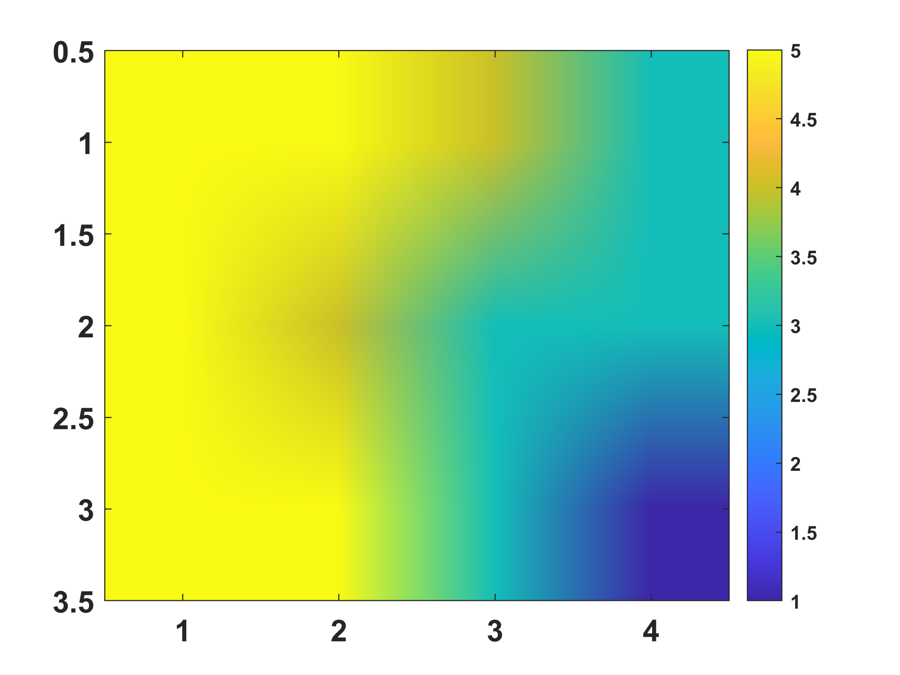
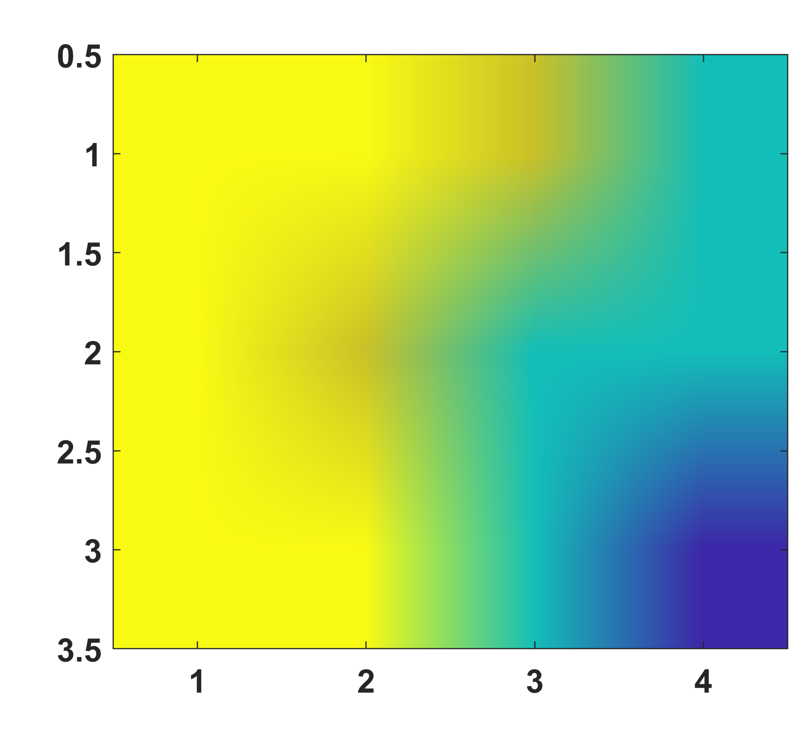
Replace setup figure with damage micrographs, remove map scales and formulas
Claude-Session: https://claude.ai/code/session_01HNLh7mp5WCfGdL9fzXE7Ag

diff --git a/research.html b/research.html
@@ -15,10 +15,10 @@
 <section id="aging"><div class="wrap"><h2>Prepreg aging</h2><div class="split"><div><p>Prepreg keeps slowly curing during room-temperature storage. As it aged, enthalpy fell and dielectric relaxation shifted, and those changes tracked the mechanical performance of the final part.</p><div class="kpis"><div class="kpi"><b>93.3%</b>test accuracy classifying prepreg age with a support vector machine</div></div>
 <details><summary>Fitted Havriliak–Negami parameters</summary><div class="tablewrap"><table><thead><tr><th>Sample</th><th>Δε</th><th>τ (s)</th><th>α</th><th>β</th></tr></thead><tbody><tr><td>Non-aged</td><td>8.68</td><td>0.63</td><td>0.48</td><td>0.24</td></tr><tr><td>10 days</td><td>4.80</td><td>1.51</td><td>0.48</td><td>0.25</td></tr><tr><td>30 days</td><td>2.45</td><td>2.19</td><td>0.48</td><td>0.26</td></tr><tr><td>40 days</td><td>1.72</td><td>2.77</td><td>0.48</td><td>0.24</td></tr></tbody></table></div></details>
 <p><a href="https://doi.org/10.1177/09673911221145053" target="_blank" rel="noopener">Read the paper</a></p></div><figure class="fig"><svg class="chart" viewBox="0 0 520 300" role="img" aria-label="Enthalpy falls from 70.68 joules per gram in non-aged prepreg to 47.96 joules per gram after more than 80 days."><line x1="50" x2="510" y1="250" y2="250" class="axis"/><text x="16" y="150" transform="rotate(-90 16 150)" text-anchor="middle" class="axlabel">Enthalpy (J/g)</text><rect x="70" y="55.6" width="56" height="194.4" rx="3" fill="#1D4ED8"/><line x1="98" x2="98" y1="50.6" y2="60.6" stroke="#171C21" stroke-width="1.5"/><text x="98" y="43.6" text-anchor="middle" class="axlabel">70.7</text><text x="98" y="272" text-anchor="middle" class="tick">Non-aged</text><text x="98" y="290" text-anchor="middle" class="tick">0% cured</text><title>Non-aged: 70.68 ± 1.82 J/g, degree of cure 0%</title><rect x="185" y="71.6" width="56" height="178.4" rx="3" fill="#1D4ED8"/><line x1="213" x2="213" y1="64.5" y2="78.8" stroke="#171C21" stroke-width="1.5"/><text x="213" y="57.5" text-anchor="middle" class="axlabel">64.9</text><text x="213" y="272" text-anchor="middle" class="tick">20 days</text><text x="213" y="290" text-anchor="middle" class="tick">8.23% cured</text><title>20 days: 64.86 ± 2.6 J/g, degree of cure 8.23%</title><rect x="300" y="93.0" width="56" height="157.0" rx="3" fill="#1D4ED8"/><line x1="328" x2="328" y1="78.9" y2="107.0" stroke="#171C21" stroke-width="1.5"/><text x="328" y="71.9" text-anchor="middle" class="axlabel">57.1</text><text x="328" y="272" text-anchor="middle" class="tick">50 days</text><text x="328" y="290" text-anchor="middle" class="tick">19.2% cured</text><title>50 days: 57.1 ± 5.11 J/g, degree of cure 19.2%</title><rect x="415" y="118.1" width="56" height="131.9" rx="3" fill="#1D4ED8"/><line x1="443" x2="443" y1="107.0" y2="129.2" stroke="#171C21" stroke-width="1.5"/><text x="443" y="100.0" text-anchor="middle" class="axlabel">48.0</text><text x="443" y="272" text-anchor="middle" class="tick">80+ days</text><text x="443" y="290" text-anchor="middle" class="tick">32.13% cured</text><title>80+ days: 47.96 ± 4.04 J/g, degree of cure 32.13%</title></svg><figcaption class="fig-cap"><b>Residual cure enthalpy falls with storage time.</b> Error bars show the reported ± values.</figcaption></figure></div></div></section>
-<section id="cure"><div class="wrap split"><div><h2>Cure and quality</h2><p>A coupled model links heat transfer, cure kinetics, and dielectric response, so a dielectric reading can be interpreted as cure state. Machine learning then turns measurements into a degree-of-cure map and a strength estimate without destructive testing.</p><div class="kpis"><div class="kpi"><b>96.7%</b>degree-of-cure mapping accuracy reported in the dissertation</div><div class="kpi"><b>R² = 0.875</b>tensile strength prediction from a neural network</div></div><p><a href="https://doi.org/10.1002/pc.27891" target="_blank" rel="noopener">Read the paper</a></p></div><figure class="fig"><div class="maps"><img src="assets/img/cure-map-a.png" alt="Smooth color map of cure state across a composite panel, ranging from class 5 to class 1" loading="lazy"><img src="assets/img/cure-map-b.png" alt="Grid-cell color map of cure state across the same panel" loading="lazy"></div><figcaption class="fig-cap"><b>Spatial cure maps across a composite panel.</b> Color shows cure state on a scale of 1 to 5.</figcaption></figure></div></section>
-<section id="damage"><div class="wrap"><h2>Sorting by damage</h2><div class="split"><div><p>A damaged composite and an undamaged one should not take the same path at end of life. Here, about 190 samples loaded to set fractions of breaking load were measured dielectrically and classified by a neural network. Damage history also changed how resin came away during pyrolysis.</p></div><figure class="fig"><img src="assets/img/sorting-setup.jpg" alt="Schematic of a composite specimen under load with strain measurement and electrodes connected to a dielectric measurement unit, with mechanical and dielectric responses recorded on two computers" loading="lazy"><figcaption class="fig-cap"><b>Experimental setup.</b> Mechanical loading paired with dielectric measurement through electrodes on the specimen.</figcaption></figure></div><div class="split rev"><figure class="fig"><svg class="chart" viewBox="0 0 370 350" role="img" aria-label="Three-class test confusion matrix. 17 of 18 samples are classified correctly; one A sample was predicted as C."><text x="216" y="20" text-anchor="middle" class="tick"></text><text x="66" y="78" text-anchor="middle" class="axlabel">A</text><rect x="84" y="34" width="86" height="86" fill="#6F93EA"><title>True A, predicted A: 5</title></rect><text x="127" y="85" text-anchor="middle" font-size="24" font-weight="600" fill="#fff">5</text><rect x="172" y="34" width="86" height="86" fill="#BFD0F7"><title>True A, predicted C: 1</title></rect><text x="215" y="85" text-anchor="middle" font-size="24" font-weight="600" fill="#171C21">1</text><rect x="260" y="34" width="86" height="86" fill="#EDF2F3"><title>True A, predicted D: 0</title></rect><text x="303" y="85" text-anchor="middle" font-size="24" font-weight="600" fill="#171C21">0</text><text x="127" y="316" text-anchor="middle" class="axlabel">A</text><text x="66" y="166" text-anchor="middle" class="axlabel">C</text><rect x="84" y="122" width="86" height="86" fill="#EDF2F3"><title>True C, predicted A: 0</title></rect><text x="127" y="173" text-anchor="middle" font-size="24" font-weight="600" fill="#171C21">0</text><rect x="172" y="122" width="86" height="86" fill="#1D4ED8"><title>True C, predicted C: 6</title></rect><text x="215" y="173" text-anchor="middle" font-size="24" font-weight="600" fill="#fff">6</text><rect x="260" y="122" width="86" height="86" fill="#EDF2F3"><title>True C, predicted D: 0</title></rect><text x="303" y="173" text-anchor="middle" font-size="24" font-weight="600" fill="#171C21">0</text><text x="215" y="316" text-anchor="middle" class="axlabel">C</text><text x="66" y="254" text-anchor="middle" class="axlabel">D</text><rect x="84" y="210" width="86" height="86" fill="#EDF2F3"><title>True D, predicted A: 0</title></rect><text x="127" y="261" text-anchor="middle" font-size="24" font-weight="600" fill="#171C21">0</text><rect x="172" y="210" width="86" height="86" fill="#EDF2F3"><title>True D, predicted C: 0</title></rect><text x="215" y="261" text-anchor="middle" font-size="24" font-weight="600" fill="#171C21">0</text><rect x="260" y="210" width="86" height="86" fill="#1D4ED8"><title>True D, predicted D: 6</title></rect><text x="303" y="261" text-anchor="middle" font-size="24" font-weight="600" fill="#fff">6</text><text x="303" y="316" text-anchor="middle" class="axlabel">D</text><text x="216" y="342" text-anchor="middle" class="axlabel">Predicted class</text><text x="24" y="166" transform="rotate(-90 24 166)" text-anchor="middle" class="axlabel">True class</text></svg><figcaption class="fig-cap"><b>Three-class test results.</b> A is undamaged, C is loaded to about 75% of breaking load, and D to above 90%. 17 of 18 test samples were correct.</figcaption></figure><div><div class="kpis"><div class="kpi"><b>94.44%</b>test accuracy, three classes</div><div class="kpi"><b>85.18%</b>test accuracy, four classes</div></div><p><a href="https://doi.org/10.1016/j.compositesb.2025.113007" target="_blank" rel="noopener">Read the paper</a></p></div></div></div></section>
+<section id="cure"><div class="wrap split"><div><h2>Cure and quality</h2><p>A coupled model links heat transfer, cure kinetics, and dielectric response, so a dielectric reading can be interpreted as cure state. Machine learning then turns measurements into a degree-of-cure map and a strength estimate without destructive testing.</p><div class="kpis"><div class="kpi"><b>96.7%</b>degree-of-cure mapping accuracy reported in the dissertation</div><div class="kpi"><b>R² = 0.875</b>tensile strength prediction from a neural network</div></div><p><a href="https://doi.org/10.1002/pc.27891" target="_blank" rel="noopener">Read the paper</a></p></div><figure class="fig"><div class="maps"><img src="assets/img/cure-map-a.png" alt="Smooth color map of cure state across a composite panel" loading="lazy"><img src="assets/img/cure-map-b.png" alt="Grid-cell color map of cure state across the same panel" loading="lazy"></div><figcaption class="fig-cap"><b>Spatial cure maps across a composite panel.</b> Color shows cure state.</figcaption></figure></div></section>
+<section id="damage"><div class="wrap"><h2>Sorting by damage</h2><div class="split"><div><p>A damaged composite and an undamaged one should not take the same path at end of life. Here, about 190 samples loaded to set fractions of breaking load were measured dielectrically and classified by a neural network. Damage history also changed how resin came away during pyrolysis.</p></div><figure class="fig"><img src="assets/img/damage-micrographs.jpg" alt="Micrographs of four composite samples: no visible damage with no load, matrix cracks at 50 percent of maximum stress, matrix crack bridging and delamination at 75 percent, and delamination at 90 percent" loading="lazy"><figcaption class="fig-cap"><b>Damage grows with load.</b> Samples A to D were loaded to increasing fractions of maximum stress before dielectric measurement.</figcaption></figure></div><div class="split rev"><figure class="fig"><svg class="chart" viewBox="0 0 370 350" role="img" aria-label="Three-class test confusion matrix. 17 of 18 samples are classified correctly; one A sample was predicted as C."><text x="216" y="20" text-anchor="middle" class="tick"></text><text x="66" y="78" text-anchor="middle" class="axlabel">A</text><rect x="84" y="34" width="86" height="86" fill="#6F93EA"><title>True A, predicted A: 5</title></rect><text x="127" y="85" text-anchor="middle" font-size="24" font-weight="600" fill="#fff">5</text><rect x="172" y="34" width="86" height="86" fill="#BFD0F7"><title>True A, predicted C: 1</title></rect><text x="215" y="85" text-anchor="middle" font-size="24" font-weight="600" fill="#171C21">1</text><rect x="260" y="34" width="86" height="86" fill="#EDF2F3"><title>True A, predicted D: 0</title></rect><text x="303" y="85" text-anchor="middle" font-size="24" font-weight="600" fill="#171C21">0</text><text x="127" y="316" text-anchor="middle" class="axlabel">A</text><text x="66" y="166" text-anchor="middle" class="axlabel">C</text><rect x="84" y="122" width="86" height="86" fill="#EDF2F3"><title>True C, predicted A: 0</title></rect><text x="127" y="173" text-anchor="middle" font-size="24" font-weight="600" fill="#171C21">0</text><rect x="172" y="122" width="86" height="86" fill="#1D4ED8"><title>True C, predicted C: 6</title></rect><text x="215" y="173" text-anchor="middle" font-size="24" font-weight="600" fill="#fff">6</text><rect x="260" y="122" width="86" height="86" fill="#EDF2F3"><title>True C, predicted D: 0</title></rect><text x="303" y="173" text-anchor="middle" font-size="24" font-weight="600" fill="#171C21">0</text><text x="215" y="316" text-anchor="middle" class="axlabel">C</text><text x="66" y="254" text-anchor="middle" class="axlabel">D</text><rect x="84" y="210" width="86" height="86" fill="#EDF2F3"><title>True D, predicted A: 0</title></rect><text x="127" y="261" text-anchor="middle" font-size="24" font-weight="600" fill="#171C21">0</text><rect x="172" y="210" width="86" height="86" fill="#EDF2F3"><title>True D, predicted C: 0</title></rect><text x="215" y="261" text-anchor="middle" font-size="24" font-weight="600" fill="#171C21">0</text><rect x="260" y="210" width="86" height="86" fill="#1D4ED8"><title>True D, predicted D: 6</title></rect><text x="303" y="261" text-anchor="middle" font-size="24" font-weight="600" fill="#fff">6</text><text x="303" y="316" text-anchor="middle" class="axlabel">D</text><text x="216" y="342" text-anchor="middle" class="axlabel">Predicted class</text><text x="24" y="166" transform="rotate(-90 24 166)" text-anchor="middle" class="axlabel">True class</text></svg><figcaption class="fig-cap"><b>Three-class test results.</b> A is undamaged, C is loaded to about 75% of breaking load, and D to above 90%. 17 of 18 test samples were correct.</figcaption></figure><div><div class="kpis"><div class="kpi"><b>94.44%</b>test accuracy, three classes</div><div class="kpi"><b>85.18%</b>test accuracy, four classes</div></div><p><a href="https://doi.org/10.1016/j.compositesb.2025.113007" target="_blank" rel="noopener">Read the paper</a></p></div></div></div></section>
 <section id="recycling"><div class="wrap"><h2>Recovering and reusing fiber</h2><div class="split"><div><p>I compared several routes for waste prepreg and cured composite: plasma treatment to reuse expired prepreg, chemical fiber extraction, carbon quantum dots made from trim waste, and citric acid-assisted electrochemical recycling.</p><div class="kpis"><div class="kpi"><b>Up to 85%</b>of original tensile strength recovered in chemically extracted fiber</div><div class="kpi"><b>0.9%</b>plasma reuse energy compared with prepreg manufacturing</div></div></div><div class="fig"><h3 style="margin-bottom:12px">Citric acid-assisted electrochemical recycling</h3><div style="margin-bottom:18px"><b style="font-family:Familjen Grotesk,sans-serif">Total energy</b><div style="display:grid;grid-template-columns:130px 1fr;align-items:center;gap:10px;margin-top:6px;font:500 .95rem Familjen Grotesk,sans-serif"><span>NaCl only</span><span style="display:flex;align-items:center;gap:8px"><span style="display:block;height:16px;width:72.0%;background:#A9B5BC;border-radius:0 3px 3px 0"></span>24.34 Wh</span></div><div style="display:grid;grid-template-columns:130px 1fr;align-items:center;gap:10px;margin-top:6px;font:500 .95rem Familjen Grotesk,sans-serif"><span>NaCl + citric acid</span><span style="display:flex;align-items:center;gap:8px"><span style="display:block;height:16px;width:43.6%;background:#1D4ED8;border-radius:0 3px 3px 0"></span>14.75 Wh</span></div></div><div style="margin-bottom:18px"><b style="font-family:Familjen Grotesk,sans-serif">Process time</b><div style="display:grid;grid-template-columns:130px 1fr;align-items:center;gap:10px;margin-top:6px;font:500 .95rem Familjen Grotesk,sans-serif"><span>NaCl only</span><span style="display:flex;align-items:center;gap:8px"><span style="display:block;height:16px;width:72.0%;background:#A9B5BC;border-radius:0 3px 3px 0"></span>504 h</span></div><div style="display:grid;grid-template-columns:130px 1fr;align-items:center;gap:10px;margin-top:6px;font:500 .95rem Familjen Grotesk,sans-serif"><span>NaCl + citric acid</span><span style="display:flex;align-items:center;gap:8px"><span style="display:block;height:16px;width:7.3%;background:#1D4ED8;border-radius:0 3px 3px 0"></span>50.85 h</span></div></div><div style="margin-bottom:18px"><b style="font-family:Familjen Grotesk,sans-serif">Salt residue on fiber, XRD peak at 31.6°</b><div style="display:grid;grid-template-columns:130px 1fr;align-items:center;gap:10px;margin-top:6px;font:500 .95rem Familjen Grotesk,sans-serif"><span>NaCl only</span><span style="display:flex;align-items:center;gap:8px"><span style="display:block;height:16px;width:72.0%;background:#A9B5BC;border-radius:0 3px 3px 0"></span>180.2 </span></div><div style="display:grid;grid-template-columns:130px 1fr;align-items:center;gap:10px;margin-top:6px;font:500 .95rem Familjen Grotesk,sans-serif"><span>NaCl + citric acid</span><span style="display:flex;align-items:center;gap:8px"><span style="display:block;height:16px;width:3.1%;background:#1D4ED8;border-radius:0 3px 3px 0"></span>7.7 </span></div></div></div></div>
 <div class="gallery"><figure class="fig"><img src="assets/img/recycled-fiber.jpg" alt="Scanning electron micrograph of recycled carbon fibers" loading="lazy"><figcaption class="fig-cap">Fiber recovered from waste prepreg</figcaption></figure><figure class="fig"><img src="assets/img/quantum-dots.jpg" alt="Scanning electron micrograph of a carbon quantum dot cluster" loading="lazy"><figcaption class="fig-cap">Carbon quantum dot cluster</figcaption></figure><figure class="fig"><img src="assets/img/extracted-fiber.jpg" alt="Scanning electron micrograph of chemically extracted carbon fiber" loading="lazy"><figcaption class="fig-cap">Chemically extracted carbon fiber</figcaption></figure></div></div></section>
-<section id="calibration"><div class="wrap"><h2>Bayesian calibration and input warping</h2><div class="split"><div><p>At Clemson I worked within the GPMSA / Kennedy–O'Hagan framework. A stationary Gaussian process uses one correlation length, which is a poor fit when a simulator changes quickly in one region and slowly in another.</p><p>Input warping estimates where the response is active, turns that into a cumulative distribution F(x), and replaces the input with H(x) = (1 − λ)x + λF(x). Fast regions stretch and slow regions compress. For functional outputs, I also compared wavelet bases against SVD for capturing localized features.</p></div><div class="fig"><label for="lambda" style="font:600 1rem Familjen Grotesk,sans-serif">Warping strength λ = <span id="lambda-v"></span></label><input id="lambda" type="range" min="0" max="1" step="0.01" value="0" style="width:100%;accent-color:#1D4ED8;height:32px"><div class="plot" id="warp-plot"></div><p class="note" style="margin-bottom:0">Move λ to even out the oscillations. This uses a made-up test function to show the idea, not calibration results.</p></div></div></div></section></main>
+<section id="calibration"><div class="wrap"><h2>Bayesian calibration and input warping</h2><div class="split"><div><p>At Clemson I worked within the GPMSA / Kennedy–O'Hagan framework. A stationary Gaussian process uses one correlation length, which is a poor fit when a simulator changes quickly in one region and slowly in another.</p><p>Input warping estimates where the response is most active and redistributes the input coordinate to match. Fast regions stretch and slow regions compress. For functional outputs, I also compared wavelet bases against SVD for capturing localized features.</p></div><div class="fig"><label for="lambda" style="font:600 1rem Familjen Grotesk,sans-serif">Warping strength: <span id="lambda-v"></span></label><input id="lambda" type="range" min="0" max="1" step="0.01" value="0" style="width:100%;accent-color:#1D4ED8;height:32px"><div class="plot" id="warp-plot"></div><p class="note" style="margin-bottom:0">Move the slider to even out the oscillations. This uses a made-up test function to show the idea, not calibration results.</p></div></div></div></section></main>
 <footer id="contact"><div class="wrap"><div class="inner"><div><h2>Get in touch</h2><p>Questions about composites, dielectric sensing, or Bayesian calibration are welcome.</p><p><a href="mailto:monjurmorshed.rabby@mavs.uta.edu">monjurmorshed.rabby@mavs.uta.edu</a></p></div><div><ul><li><a href="https://scholar.google.com/citations?user=is3o6EQAAAAJ&amp;hl=en" rel="noopener" target="_blank">Google Scholar</a></li><li><a href="https://www.researchgate.net/profile/Monjur-Morshed-Rabby" rel="noopener" target="_blank">ResearchGate</a></li><li><a href="https://www.linkedin.com/in/monjur-morshed-rabby-phd-6b66141a7" rel="noopener" target="_blank">LinkedIn</a></li></ul><p class="small">© 2026 Monjur Morshed Rabby</p></div></div></div></footer>
 <script src="assets/site.js"></script></body></html>

diff --git a/assets/site.js b/assets/site.js
@@ -10,7 +10,7 @@ if(box){const small=box.clientWidth<620,W=small?400:1120,H=small?330:340,L=small
  for(let v=0;v<=9;v+=3){el('line',{x1:L,x2:W-R,y1:Y(v),y2:Y(v),class:v?'grid':'axis'},svg);const t=el('text',{x:L-10,y:Y(v)+4,'text-anchor':'end',class:'tick'},svg);t.textContent=v}
  for(let d=lo;d<=hi;d+=small?3:1){const t=el('text',{x:X(d),y:H-B+20,'text-anchor':'middle',class:'tick'},svg);t.textContent=d==0?'1':d==1?'10':'10'+String(d).replace('-','⁻').replace(/\d/,c=>'⁰¹²³⁴⁵⁶⁷⁸⁹'[c])}
  const xl=el('text',{x:(L+W-R)/2,y:H-6,'text-anchor':'middle',class:'axlabel'},svg);xl.textContent='Frequency (Hz)';
- const yl=el('text',{x:14,y:(T+H-B)/2,'text-anchor':'middle',class:'axlabel',transform:`rotate(-90 14 ${(T+H-B)/2})`},svg);yl.textContent='ε′ − ε∞';
+ const yl=el('text',{x:14,y:(T+H-B)/2,'text-anchor':'middle',class:'axlabel',transform:`rotate(-90 14 ${(T+H-B)/2})`},svg);yl.textContent='Real permittivity change';
  const paths=HN.map(p=>{let d='';for(let i=0;i<=240;i++){const l=lo+(hi-lo)*i/240;d+=(i?'L':'M')+X(l).toFixed(1)+' '+Y(hn(10**l,p)).toFixed(1)}return el('path',{d,fill:'none','stroke-linecap':'round'},svg)});
  const labs=HN.map(p=>{const t=el('text',{x:X(hi)+8,y:Y(hn(1e6,p))+4,class:'tick'},svg);t.textContent=p.lab;return t});
  // spread end labels so they do not collide
@@ -20,7 +20,7 @@ if(box){const small=box.clientWidth<620,W=small?400:1120,H=small?330:340,L=small
  const input=document.getElementById('age'),oS=document.getElementById('r-s'),oT=document.getElementById('r-t');let cur=0;
  const set=i=>{cur=i;paths.forEach((p,j)=>{p.setAttribute('stroke',j==i?'#1D4ED8':'#A9B5BC');p.setAttribute('stroke-width',j==i?3:1.5)});labs.forEach((t,j)=>{t.style.fontWeight=j==i?700:400;t.style.fill=j==i?'#171C21':'#4D5A64'});svg.appendChild(paths[i]);svg.appendChild(cross);svg.appendChild(dot);oS.textContent=HN[i].s.toFixed(2);oT.textContent=HN[i].t.toFixed(2)+' s';input.setAttribute('aria-valuetext',HN[i].lab)};
  input.addEventListener('input',()=>set(+input.value));set(0);
- const mv=e=>{const r=svg.getBoundingClientRect(),x=(e.clientX-r.left)/r.width*W;if(x<L||x>W-R)return leave();const l=lo+(x-L)/(W-L-R)*(hi-lo),f=10**l,v=hn(f,HN[cur]);cross.setAttribute('x1',x);cross.setAttribute('x2',x);dot.setAttribute('cx',x);dot.setAttribute('cy',Y(v));cross.setAttribute('visibility','visible');dot.setAttribute('visibility','visible');tip.style.display='block';tip.style.left=Math.min(Math.max(70,x/W*r.width),r.width-70)+'px';tip.style.top=(Y(v)/H*r.height)+'px';tip.textContent=`${f<1?f.toPrecision(2):f.toPrecision(3).replace(/\.?0+$/,'')} Hz, ε′−ε∞ = ${v.toFixed(2)}`};
+ const mv=e=>{const r=svg.getBoundingClientRect(),x=(e.clientX-r.left)/r.width*W;if(x<L||x>W-R)return leave();const l=lo+(x-L)/(W-L-R)*(hi-lo),f=10**l,v=hn(f,HN[cur]);cross.setAttribute('x1',x);cross.setAttribute('x2',x);dot.setAttribute('cx',x);dot.setAttribute('cy',Y(v));cross.setAttribute('visibility','visible');dot.setAttribute('visibility','visible');tip.style.display='block';tip.style.left=Math.min(Math.max(70,x/W*r.width),r.width-70)+'px';tip.style.top=(Y(v)/H*r.height)+'px';tip.textContent=`${f<1?f.toPrecision(2):f.toPrecision(3).replace(/\.?0+$/,'')} Hz, change = ${v.toFixed(2)}`};
  const leave=()=>{cross.setAttribute('visibility','hidden');dot.setAttribute('visibility','hidden');tip.style.display='none'};
  svg.addEventListener('pointermove',mv);svg.addEventListener('pointerleave',leave);
 }
@@ -30,7 +30,7 @@ if(wb){const W=560,PH=170,L=8,pw=W-16;const svg=el('svg',{class:'chart',viewBox:
  const f=x=>Math.sin(2*Math.PI*(1.2*x+7*x*x*x*x)),N=1200,xs=[...Array(N+1)].map((_,i)=>i/N);
  const act=xs.map(x=>Math.abs(f(Math.min(1,x+1/N))-f(x))*N+.15);const cdf=[0];for(let i=1;i<=N;i++)cdf[i]=cdf[i-1]+act[i];const F=cdf.map(c=>c/cdf[N]);
  const line=(u,top)=>{let d='';xs.forEach((x,i)=>{d+=(i?'L':'M')+(L+u(i)*pw).toFixed(1)+' '+(top+(1-f(x))/2*(PH-34)).toFixed(1)});return d};
- const lab=(y,t0)=>{const t=el('text',{x:L,y,class:'axlabel'},svg);t.textContent=t0};lab(16,'Response against original input x');lab(16+PH,'Same response against warped input H(x)');
+ const lab=(y,t0)=>{const t=el('text',{x:L,y,class:'axlabel'},svg);t.textContent=t0};lab(16,'Response against original input');lab(16+PH,'Same response against warped input');
  el('path',{d:line(i=>xs[i],26),fill:'none',stroke:'#4D5A64','stroke-width':1.6},svg);
  const pth=el('path',{fill:'none',stroke:'#1D4ED8','stroke-width':1.8},svg),inp=document.getElementById('lambda'),o=document.getElementById('lambda-v');
  const up=()=>{const l=+inp.value;o.textContent=l.toFixed(2);pth.setAttribute('d',line(i=>(1-l)*xs[i]+l*F[i],26+PH))};inp.addEventListener('input',up);up();

diff --git a/index.html b/index.html
@@ -12,7 +12,7 @@
 <p class="title">Postdoctoral Research Associate, University of Texas at Arlington</p><p class="prev">Previously Research Scientist, Clemson University</p>
 <p class="lede">I study how composite materials change from raw prepreg to recycling, and how much we should trust the models that predict them.</p>
 <div class="actions"><a class="btn solid" href="research.html">Explore research</a><a class="btn" href="publications.html">View publications</a><a class="btn" href="cv.html">Read CV</a><a class="btn" href="https://scholar.google.com/citations?user=is3o6EQAAAAJ&amp;hl=en" target="_blank" rel="noopener">Google Scholar</a></div></div></header>
-<div class="spectrum"><div class="wrap"><div class="spectrum-head"><div><h2>A prepreg's electrical signature changes with room temperature aging</h2><p class="readout"><span><b id="r-s"></b>relaxation strength, Δε</span><span><b id="r-t"></b>relaxation time, τ</span></p></div>
+<div class="spectrum"><div class="wrap"><div class="spectrum-head"><div><h2>A prepreg's electrical signature changes with room temperature aging</h2><p class="readout"><span><b id="r-s"></b>relaxation strength</span><span><b id="r-t"></b>relaxation time</span></p></div>
 <div class="age"><label for="age">Room-temperature aging time</label><input id="age" type="range" min="0" max="3" step="1" value="0"><div class="ticks"><span>Non-aged</span><span>10 days</span><span>30 days</span><span>40 days</span></div></div></div>
 <div class="plot" id="hn-plot"></div>
 <p class="note">Curves calculated from the Havriliak–Negami parameters fitted to measured real permittivity in my dissertation. They are not raw measurements. Relaxation strength falls and relaxation time rises with aging.</p></div></div>
